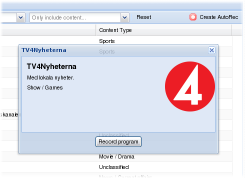
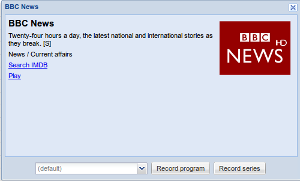
webui: Update EPG help files for duration filter et al

diff --git a/docs/html/epg.html b/docs/html/epg.html
@@ -1,95 +1,130 @@
 <div class="hts-doc-text">
-Tvheadend has a built in Electronic Program Guide. The EPG is an in memory
+<p>Tvheadend has a built in Electronic Program Guide. The EPG is an in-memory
 database populated with all the information about events received from
-the DVB networks or from XMLTV.
-<p>
-The EPG tab displays a filterable paged grid containing all the events
-sorted based on start time.
+the DVB networks over-the-air or from external grabbers such as XMLTV.</p>
+<p></p>
+<p>The EPG tab displays a filterable grid containing all events,
+sorted based on start time.</p>
 <img src="docresources/epg.png">
-<p>
-<dl>
- <dt>Filtering (or searching)
- <dd>
- In the EPG top tool bar you can access four input fields.
+<p></p>
+<hr>
+<b>Filtering (or searching)</b>
+<hr>
+ <p>In the EPG top tool bar you can access five input fields.
  These are used to filter/search for events. The form uses implicit AND
  between the input fields. This means that all filters must match
- for an event to be displayed.
+ for an event to be displayed.</p>
  <dl>
   <dt>[Search title...]
   <dd>
-  Filter on the event title. The filter uses case insensitive regular
-  expression. If you don't know what a regular expression is this means
-  that you can type just parts of the title and filter on that too.
-  (No need for exact matching).
-  <dt>[Filter channel...]
+  Only display events that match the given title. The filter uses case-insensitive
+  regular expressions. If you don't know what a regular expression is, this simply 
+  means that you can type just parts of the title and filter on that - there's no need 
+  for full, exact matching.</dd>
+  <dt>[Filter channel...]</dt>
   <dd>
   Only display events from the selected channel. Channels in the drop down are 
-  ordered by channel number and can be filtered (by name) by typing in the box.
-  <dt>[Filter tag...]
+  ordered by channel number and can be filtered (by name) by typing in the box.</dd>
+  <dt>[Filter tag...]</dt>
   <dd>
-  Only display events from the channels which are included in the selected tag.
-  Tags are used for grouping channels and is configured by the administrator.
-  <dt>[Filter content type...]
+  Only display events from channels which are included in the selected tag.
+  Tags are used for grouping channels together - such as 'Radio' or 'HDTV' - and are 
+  configured by the administrator. You can start typing a tag name to filter the list.</dd>
+  <dt>[Filter content type...]</dt>
   <dd>
-  Most DVB networks classify their events into content groups. This field
-  allows you to filter based on content type.
+  Only display events that match the given content type tag. Most DVB networks 
+  classify their events into content groups. This field allows you to filter based
+  on content type (e.g. "Sports" or "Game Show"). Supported tags are determined by
+  your broadcaster. Again, simply start typing to filter the entries if you have a 
+  long list to choose from.</dd>
+  <dt>[Filter duration...]</dt>
+  <dd>
+  Only display events that fall between the given minimum and maximum durations. 
+  This allows you to filter for or against, say, a daily broadcast and a weekly omnibus
+  edition of a programme, or only look for short news bulletins and not the 24-hour 
+  rolling broadcasts.</dd>
+  <dd>&nbsp;</dd>
+  <dd>Options are:</dd>
+  
+  <table class="hts-doc-text" border="0">
+    <tr><td>00:00:01 to 00:15:00 - for very short news bulletins, children's programmes, etc.</td></tr>
+    <tr><td>00:15:01 to 00:30:00 - for short programmes, e.g. daily soap operas</td></tr>
+    <tr><td>00:30:01 to 01:30:00 - for medium-length programmes, e.g. documentaries</td></tr>
+    <tr><td>01:30:01 to 03:00:00 - for longer programmes, e.g. films</td></tr>
+    <tr><td>03:00:00 to no maximum - for very long programmes, e.g. major sporting events</td></tr>
+  </table>
+
  </dl>
- Thus, if you only would like to browse Movies from your HD-channels you
- would select 'HDTV' in the [Filter tag...]-field, and select
- 'Movie / Drama' in the [Only include content...]-field.
- <p>
- Notice that you don't have to press a 'Search' button, the grid immediately
- updates itself as you change the filters.
- <p>
- If you would like to clear all filters, just press the [Reset] button.
+ 
+ <p>So, if you only want to see Movies from your available HD channels, you
+ would select 'HDTV' in the <i>[Filter tag...]</i> field, and select
+ 'Movie / Drama' in the <i>[Filter content type...]</i> field. If you wish, you
+ could then further limit the search to programmes of between 90 minutes and 3 hours by  
+ selecting '01:30:01 to 03:00:00' in the <i>[Filter duration...]</i> field.</p>
+ <p></p>
+ <p>Note that you don't have to press a 'Search' button: the grid immediately
+ updates itself as you change the filters.</p>
+ <p></p>
+ <p>You can clear an individual filter by simply deleting its contents, or by selecting 
+ <i>'(Clear filter)'</i> as appropriate on all except the title filter. If you want to 
+ clear all filters, just press the <i>[Reset All]</i> button.</p>
+ <br>&nbsp;</br>
 
- <dt>Paging
+<hr>
+<b>Event details and recording</b>
+<hr>
 
- <dd>
- In large installations with many channels and full EPG feed there could be 
- tens of thousands of events in the database.
- Therefore the EPG display employs a paging bar at the bottom of the grid.
- Use it to browse backwards and forwards in the EPG. It also displays the
- total amount of events matched by the current query.
-
- <dt>Event details and recording
- <dd>
- If you click on a single event, a popup will display detailed information
- about the event. It also allows the user to schedule the event for recording
- by clicking on the [Record program] button.
+ <p>If you click on a single event, a popup will display detailed information
+ about the event. It also allows you to schedule the event for recording
+ by clicking on the <i>[Record program]</i> button.</p>
  <p>
  For EPG providers that supply series link information there will also be a 
- [Record series] button that will record all entries in the series.
+ <i>[Record series]</i> button that will record all entries in the series.</p>
  <p>
- For events without any series link information, a [Autorec] button will be
- provided to create a pseudo series link using the Autorec feature.
- <p>
- <img src="docresources/epg2.png">
- <p>
- To close the popup, just close it with the [X] window button.
- The popup is not modal and you can open as many detailed information popups
- as you want.
+ For events without any series link information, an <i>[Autorec]</i> button will be
+ provided to create a pseudo-series link using the autorec feature.</p>
+ <p></p>
+ <img src="docresources/epg2.png"> <img src="docresources/epg3.png">
+ <p></p>
+ <p>If you schedule any kind of recording from this point, you can choose a specific 
+ DVR profile that will apply to the recording or autorec rule. This will normally show
+ as <i>(default)</i>, but you can define different profiles in the <b>Configuration -> 
+ Recording -> Digital Video Recorder</b> tab. This allows you to set, for example, more post-
+ broadcast padding for a channel that always runs late, or perhaps define a different 
+ post-processing command to strip adverts out on a commercial channel.</p>
+ <p>You will also see a <i>Search IMDB</i> link to look for the programme by name on 
+ imdb.com, and a <i>Play</i> link to watch a programme that's already in progress. This 
+ second link downloads a playlist file (XSPF or M3U depending on your startup options); 
+ if your system is configured for it, this will automatically launch an appropriate 
+ player, otherwise you will need to manually open the playlist to start watching (normally a 
+ double-click on the downloaded file).</p>
+ <p></p>
+ <p>To close the popup, just click on the [X] window button.
+ The popup isn't modal, so you don't have to close it before doing something else,
+ and you can open as many detailed information popups as you want.</p>
+ <br>&nbsp;</br>
 
-
- <dt>Autorecordings
- <dd>
- Should you wish to record all events matching a specific query. (Record
- your favorite TV-show, etc) you can press the [Create Autorec] button
- in the top toolbar.
- <p>
- A popup with details about the to-be-created autorecording rule needs to
- be confirmed before the rule takes effect.
- <p>
+ <hr>
+ <b>Autorecordings</b>
+ <hr>
+ <p>Should you wish to record all events matching a specific query (to record
+ your favourite show every week, for example) you can press the <i>[Create AutoRec]</i>
+ button in the top toolbar.</p>
+ <p></p>
+ <p>A popup with details about the to-be-created autorecording rule needs to
+ be confirmed before the rule takes effect.</p>
+ <p></p>
  <img src="docresources/autorecpopup.png">
- <p>
- The autorecordings can later be changed/deleted in under the
- 'Digital Video Recorder'-tag. Use that editor if you temporary want
- to disable an autorecording or make adjustments, etc.
+ <p></p>
+ <p>You can change or delete the autorec rules in the
+ <b>Digital Video Recorder</b> tab. Use that editor if you temporarily want
+ to disable an autorecording or make adjustments to the channel, tag, or similar.</p>
+ <br>&nbsp;</br>
 
- <dt>Watch TV
- <dd>
- If you want to watch live TV in the web UI, the [Watch TV] button will pop-up
+ <hr>
+ <b>Watch TV</b>
+ <hr>
+ <p>If you want to watch live TV in the web UI, the <i>[Watch TV]</i> button will pop up
  a VLC plugin window (if you don't have the plugin installed a direct URL should be
- provided to load into your preferred media player).
-</dl>
+ provided to load into your preferred media player).</p>
 </div>
